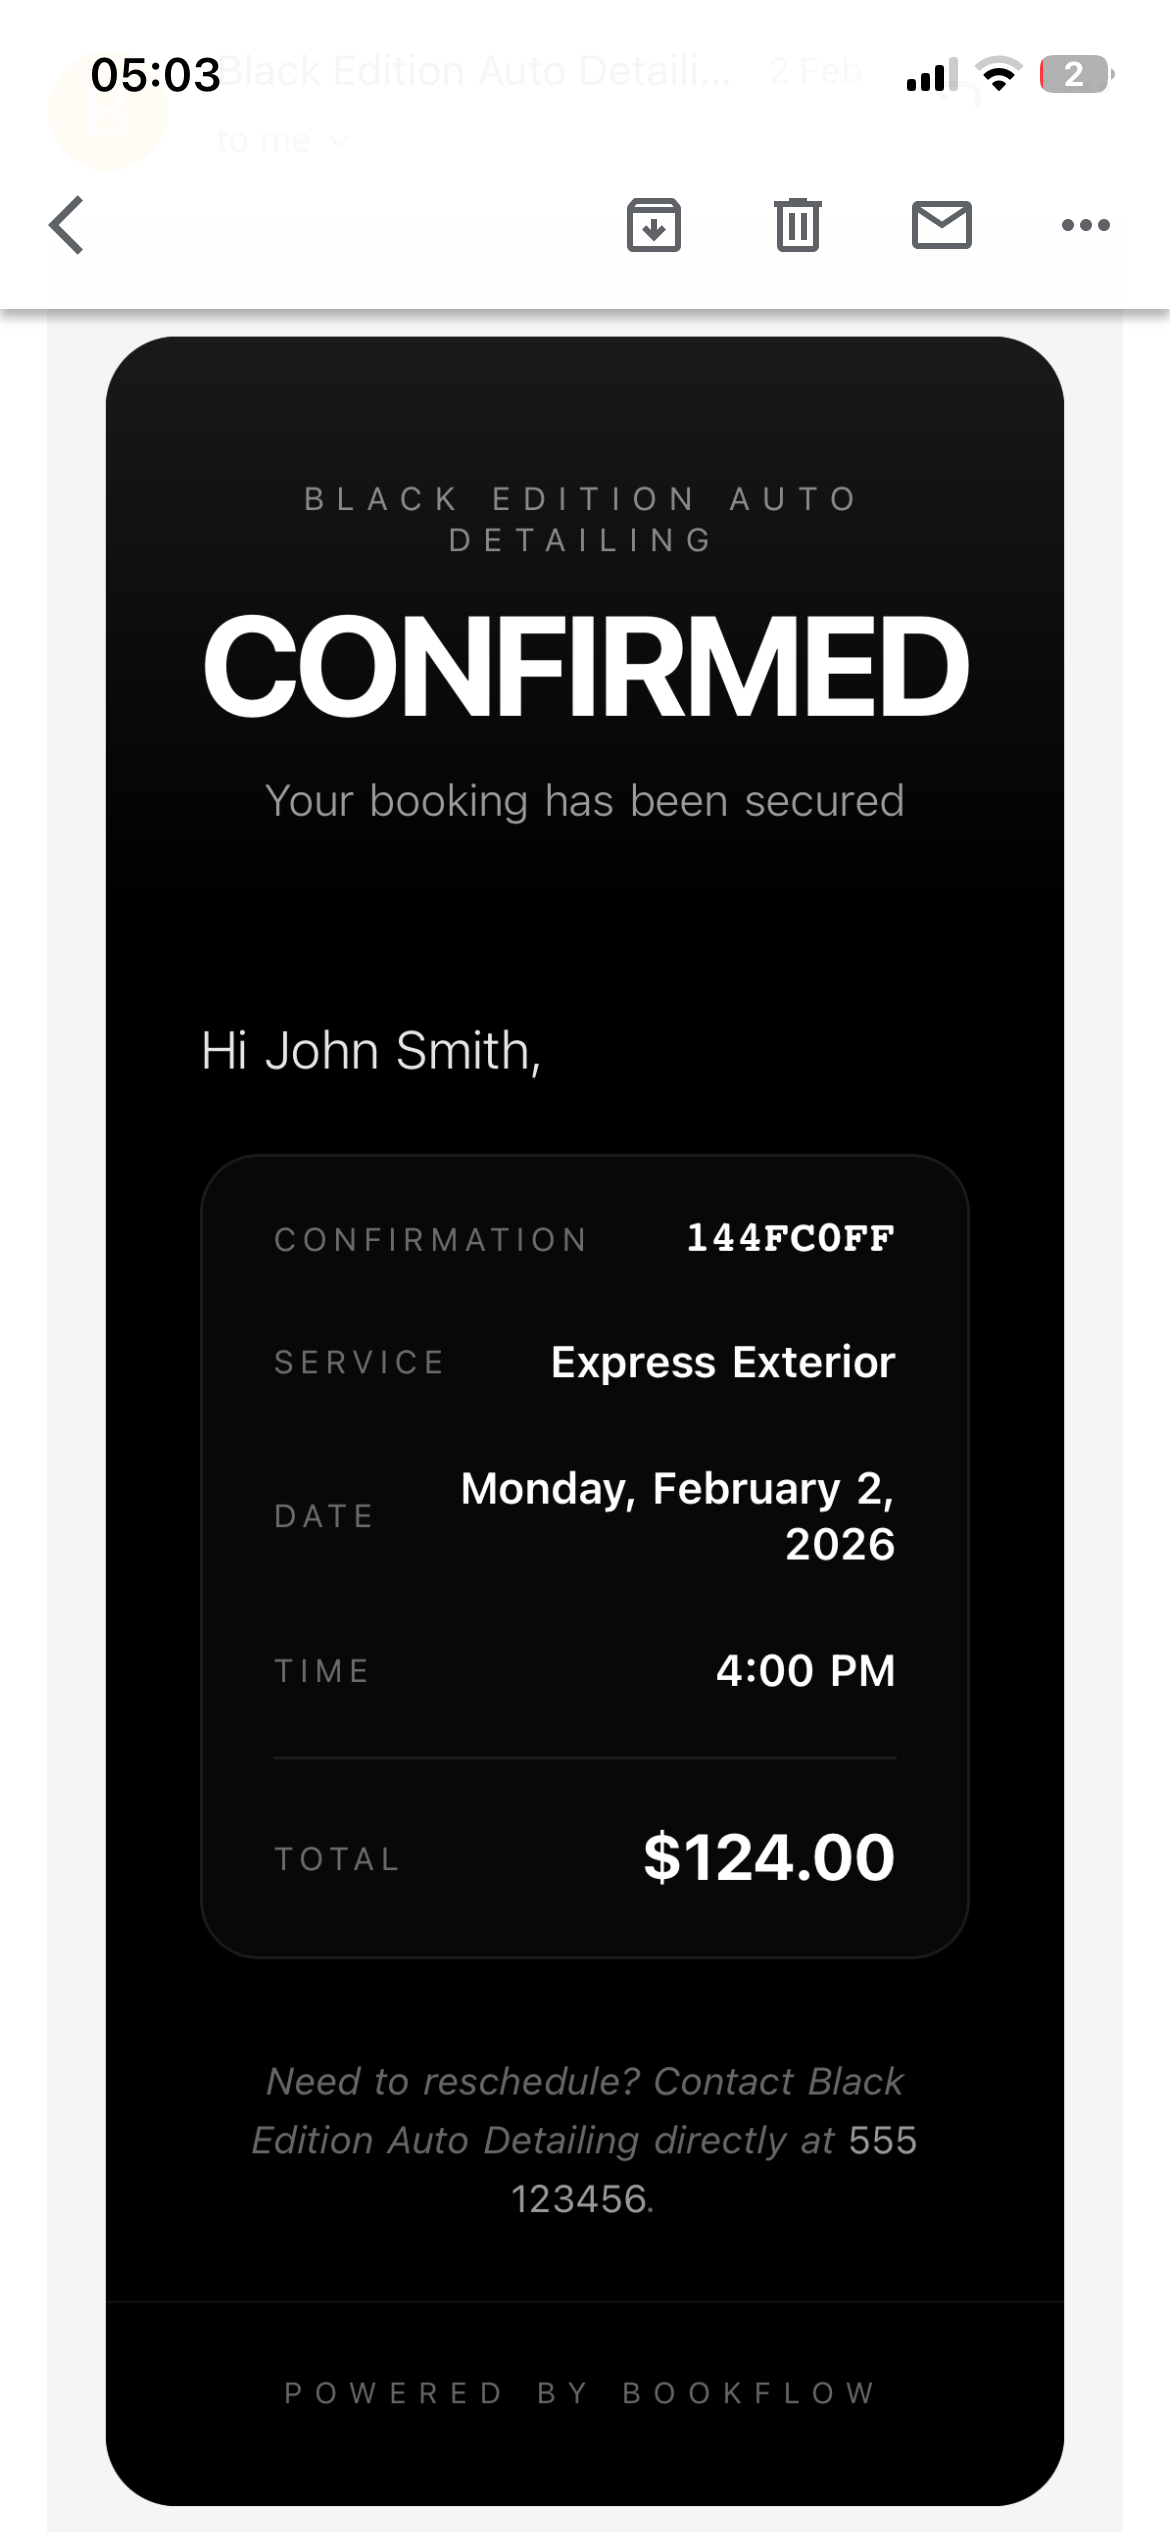
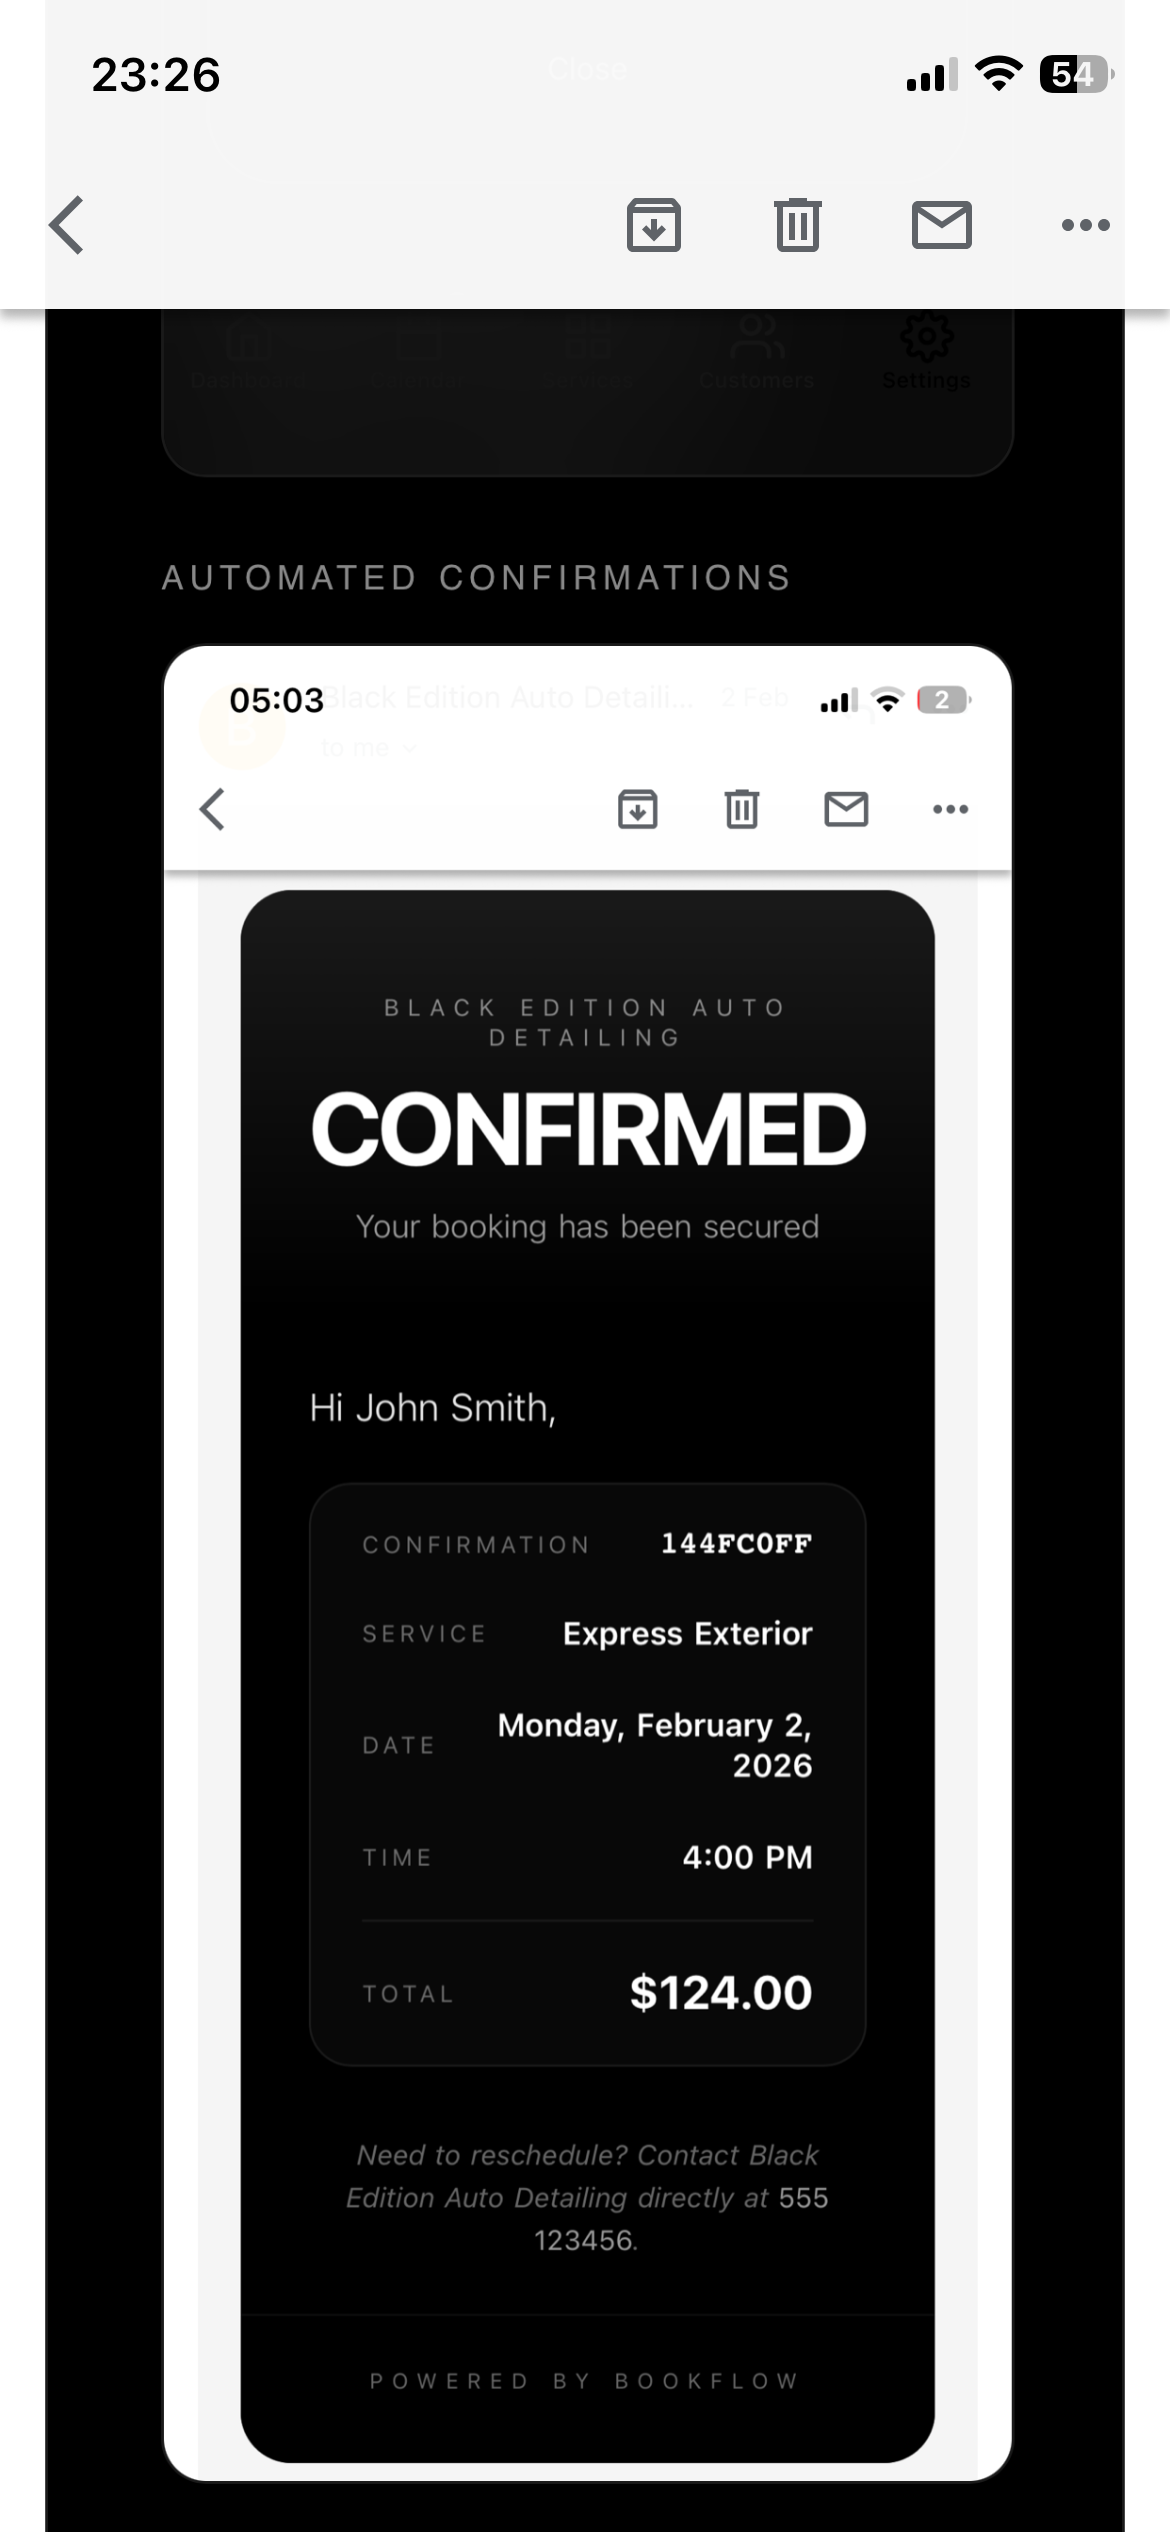
Improve email previews with dynamic business names and sleek designs
Update email templates to dynamically display business names in booking links, QR codes, and reminder emails, enhancing the premium look of previews.

Replit-Commit-Author: Agent
Replit-Commit-Session-Id: 8ee6f404-13de-40a6-ba18-bb50474d0503
Replit-Commit-Checkpoint-Type: full_checkpoint
Replit-Commit-Event-Id: dd9c877b-709a-4384-84c5-30678207f974
Replit-Commit-Screenshot-Url: https://storage.googleapis.com/screenshot-production-us-central1/f6aec5b4-37d5-48e6-9737-5f50e4fba9d4/8ee6f404-13de-40a6-ba18-bb50474d0503/VBW3izs
Replit-Helium-Checkpoint-Created: true

diff --git a/server/seo-routes.ts b/server/seo-routes.ts
@@ -47,34 +47,44 @@ function getEmailTemplate(businessName: string, bookingLink: string, niche: stri
 
       <div style="margin-bottom: 40px;">
         <div style="color: #888; text-transform: uppercase; letter-spacing: 2px; font-size: 12px; margin-bottom: 16px;">Your Custom Booking Link</div>
-        <div style="background: rgba(255,255,255,0.05); border: 1px solid rgba(255,255,255,0.1); border-radius: 24px; overflow: hidden; margin-bottom: 24px;">
-          <div style="background: #111; padding: 40px; text-align: center; border-bottom: 1px solid rgba(255,255,255,0.05);">
-            <h2 style="font-family: 'Cormorant Garamond', serif; font-size: 48px; line-height: 1; margin: 0; color: #f5f5f7; letter-spacing: -1px;">RESERVE<br>YOUR<br>SPACE</h2>
-            <div style="width: 60px; height: 2px; background: #444; margin: 24px auto 0;"></div>
+        
+        <!-- Premium Sleek Booking Link Card -->
+        <div style="background: rgba(255,255,255,0.05); border: 1px solid rgba(255,255,255,0.1); border-radius: 24px; overflow: hidden; margin-bottom: 32px;">
+          <div style="background: #111; padding: 48px 40px; text-align: center; border-bottom: 1px solid rgba(255,255,255,0.05); position: relative;">
+            <div style="position: absolute; top: 20px; right: 20px; opacity: 0.2;">
+              <img src="${DOMAIN}/favicon.png" style="width: 40px; height: 40px; filter: grayscale(1);">
+            </div>
+            <h2 style="font-family: 'Cormorant Garamond', serif; font-size: 56px; line-height: 0.9; margin: 0; color: #f5f5f7; letter-spacing: -2px; font-weight: 500;">RESERVE<br>YOUR<br>SPACE</h2>
+            <div style="width: 40px; height: 1px; background: rgba(255,255,255,0.2); margin: 32px auto 0;"></div>
           </div>
-          <div style="padding: 24px; display: flex; align-items: center; justify-content: space-between;">
-            <div style="display: flex; align-items: center; gap: 12px;">
-              <div style="width: 40px; height: 40px; border-radius: 50%; overflow: hidden; display: flex; align-items: center; justify-content: center; background: #fff;">
+          <div style="padding: 24px 32px; background: #000; display: flex; align-items: center; justify-content: space-between;">
+            <div style="display: flex; align-items: center; gap: 16px;">
+              <div style="width: 44px; height: 44px; border-radius: 12px; overflow: hidden; display: flex; align-items: center; justify-content: center; background: #fff; border: 1px solid rgba(255,255,255,0.1);">
                 <img src="${DOMAIN}/favicon.png" style="width: 100%; height: 100%; object-fit: cover;">
               </div>
-              <div>
-                <div style="color: #f5f5f7; font-weight: 600; font-size: 18px;">${businessName}</div>
-                <div style="color: #888; font-size: 12px; text-transform: uppercase; letter-spacing: 1px;">BOOK YOUR APPOINTMENT</div>
-                <div style="color: #444; font-size: 12px;">CONFIRMBOOKING.ONLINE</div>
+              <div style="text-align: left;">
+                <div style="color: #f5f5f7; font-weight: 600; font-size: 18px; letter-spacing: -0.5px;">${businessName}</div>
+                <div style="color: #888; font-size: 11px; text-transform: uppercase; letter-spacing: 1.5px; margin-top: 2px; font-weight: 500;">SMART BOOKING INTERFACE</div>
               </div>
             </div>
-            <div style="width: 32px; height: 32px; background: rgba(255,255,255,0.1); border-radius: 50%; display: flex; align-items: center; justify-content: center; color: #f5f5f7;">↗</div>
+            <div style="width: 36px; height: 36px; border: 1px solid rgba(255,255,255,0.15); border-radius: 50%; display: flex; align-items: center; justify-content: center; color: #f5f5f7; font-size: 18px; transition: all 0.3s ease;">↗</div>
           </div>
         </div>
         
         <div style="color: #888; text-transform: uppercase; letter-spacing: 2px; font-size: 12px; margin-bottom: 16px;">Your Smart QR Code</div>
-        <img src="${imageUrls.qr}" alt="QR Code Preview" style="width: 100%; border-radius: 16px; border: 1px solid rgba(255,255,255,0.1); margin-bottom: 24px;">
+        <div style="background: rgba(255,255,255,0.03); border: 1px solid rgba(255,255,255,0.08); border-radius: 24px; padding: 24px; margin-bottom: 32px; text-align: center;">
+          <img src="${imageUrls.qr}" alt="QR Code Preview" style="width: 100%; border-radius: 16px; display: block;">
+        </div>
 
         <div style="color: #888; text-transform: uppercase; letter-spacing: 2px; font-size: 12px; margin-bottom: 16px;">Automated Confirmations</div>
-        <img src="${imageUrls.confirmation}" alt="Confirmation Preview" style="width: 100%; border-radius: 16px; border: 1px solid rgba(255,255,255,0.1); margin-bottom: 24px;">
+        <div style="background: rgba(255,255,255,0.03); border: 1px solid rgba(255,255,255,0.08); border-radius: 24px; padding: 24px; margin-bottom: 32px; text-align: center;">
+          <img src="${imageUrls.confirmation}" alt="Confirmation Preview" style="width: 100%; border-radius: 16px; display: block;">
+        </div>
 
         <div style="color: #888; text-transform: uppercase; letter-spacing: 2px; font-size: 12px; margin-bottom: 16px;">Automated Reminders</div>
-        <img src="${imageUrls.reminder}" alt="Reminder Preview" style="width: 100%; border-radius: 16px; border: 1px solid rgba(255,255,255,0.1); margin-bottom: 32px;">
+        <div style="background: rgba(255,255,255,0.03); border: 1px solid rgba(255,255,255,0.08); border-radius: 24px; padding: 24px; margin-bottom: 40px; text-align: center;">
+          <img src="${imageUrls.reminder}" alt="Reminder Preview" style="width: 100%; border-radius: 16px; display: block;">
+        </div>
       </div>
 
       <p style="font-size: 16px; line-height: 1.6; color: #ccc; margin-bottom: 32px;">
@@ -83,16 +93,19 @@ function getEmailTemplate(businessName: string, bookingLink: string, niche: stri
 
       <div style="text-align: center; border-top: 1px solid rgba(255,255,255,0.1); padding-top: 32px; margin-bottom: 32px;">
         <p style="color: #888; font-size: 14px; margin-bottom: 24px;">Try your custom booking demo:</p>
-        <a href="${bookingLink}" style="background: #f5f5f7; color: #000; padding: 18px 48px; border-radius: 100px; text-decoration: none; font-weight: 600; display: inline-block; font-size: 16px;">View Booking Page</a>
+        <a href="${bookingLink}" style="background: #f5f5f7; color: #000; padding: 18px 48px; border-radius: 100px; text-decoration: none; font-weight: 600; display: inline-block; font-size: 16px; letter-spacing: 0.5px;">View Booking Page</a>
       </div>
 
-      <p style="font-size: 14px; color: #888; line-height: 1.6;">
+      <p style="font-size: 14px; color: #888; line-height: 1.6; text-align: center;">
         If you’d like, I can also enable automated reminders and smart follow-ups to further reduce missed appointments.
       </p>
 
-      <div style="margin-top: 40px; padding-top: 24px; border-top: 1px solid rgba(255,255,255,0.05);">
-        <p style="color: #f5f5f7; font-weight: 600; margin-bottom: 4px;">BookFlow</p>
-        <p style="color: #888; font-size: 12px; text-transform: uppercase; letter-spacing: 1px;">Smart Booking for Service Businesses</p>
+      <div style="margin-top: 48px; padding-top: 32px; border-top: 1px solid rgba(255,255,255,0.05); text-align: center;">
+        <div style="display: inline-flex; align-items: center; gap: 10px; margin-bottom: 8px;">
+          <img src="${DOMAIN}/favicon.png" style="width: 20px; height: 20px; opacity: 0.8;">
+          <span style="color: #f5f5f7; font-weight: 600; letter-spacing: 1px; font-size: 15px;">BookFlow</span>
+        </div>
+        <p style="color: #555; font-size: 11px; text-transform: uppercase; letter-spacing: 2px;">Premium Booking Infrastructure</p>
       </div>
     </div>
   `;
